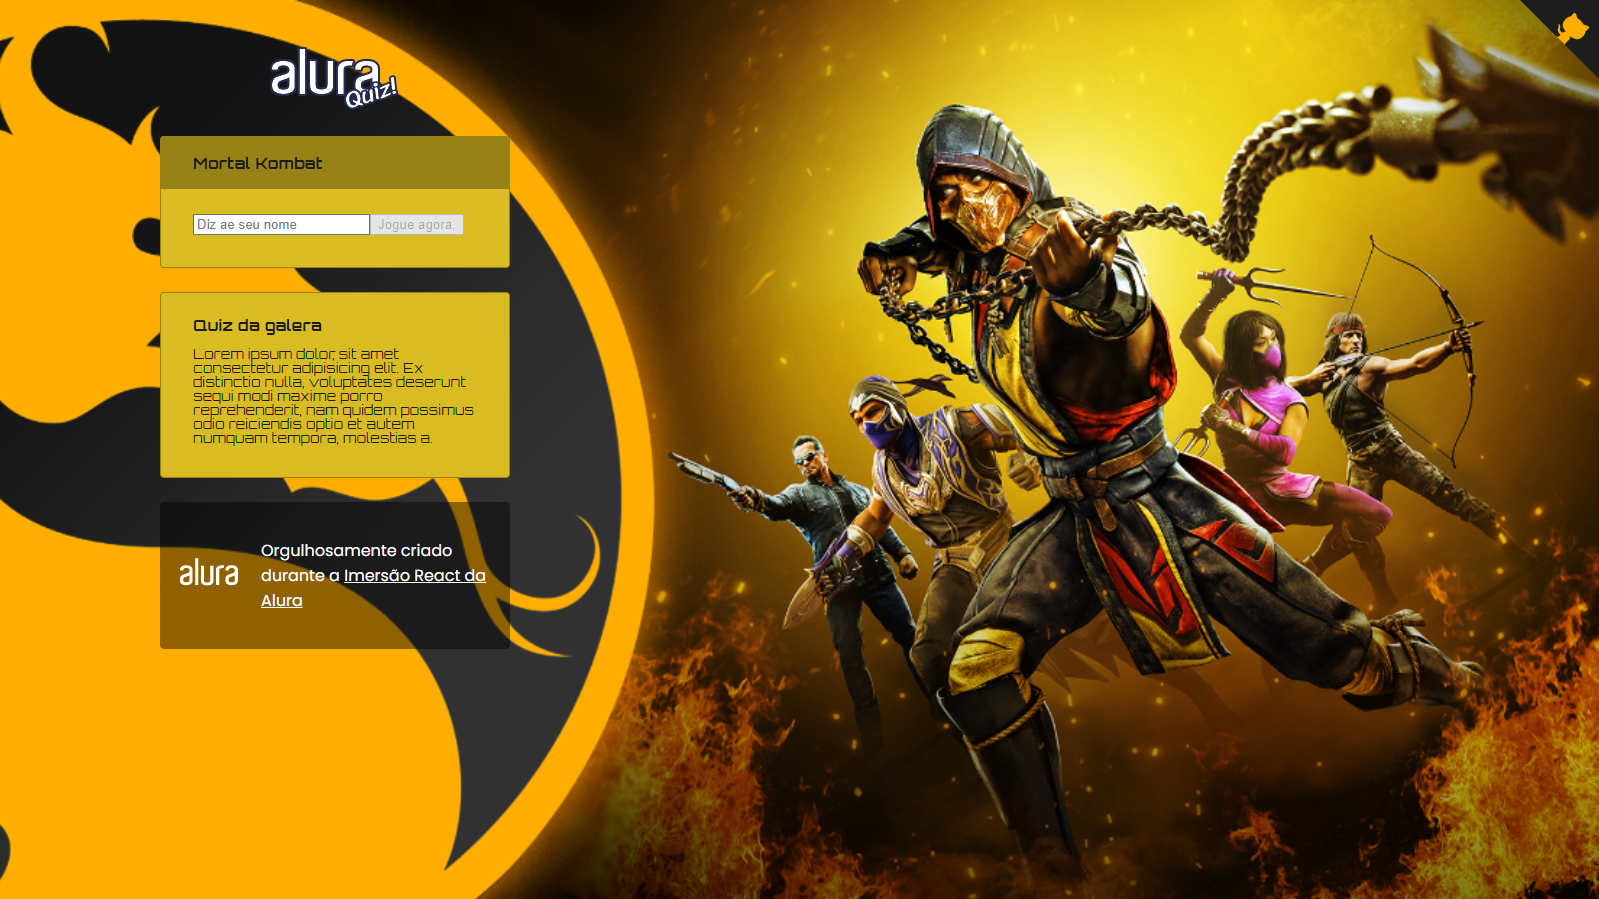
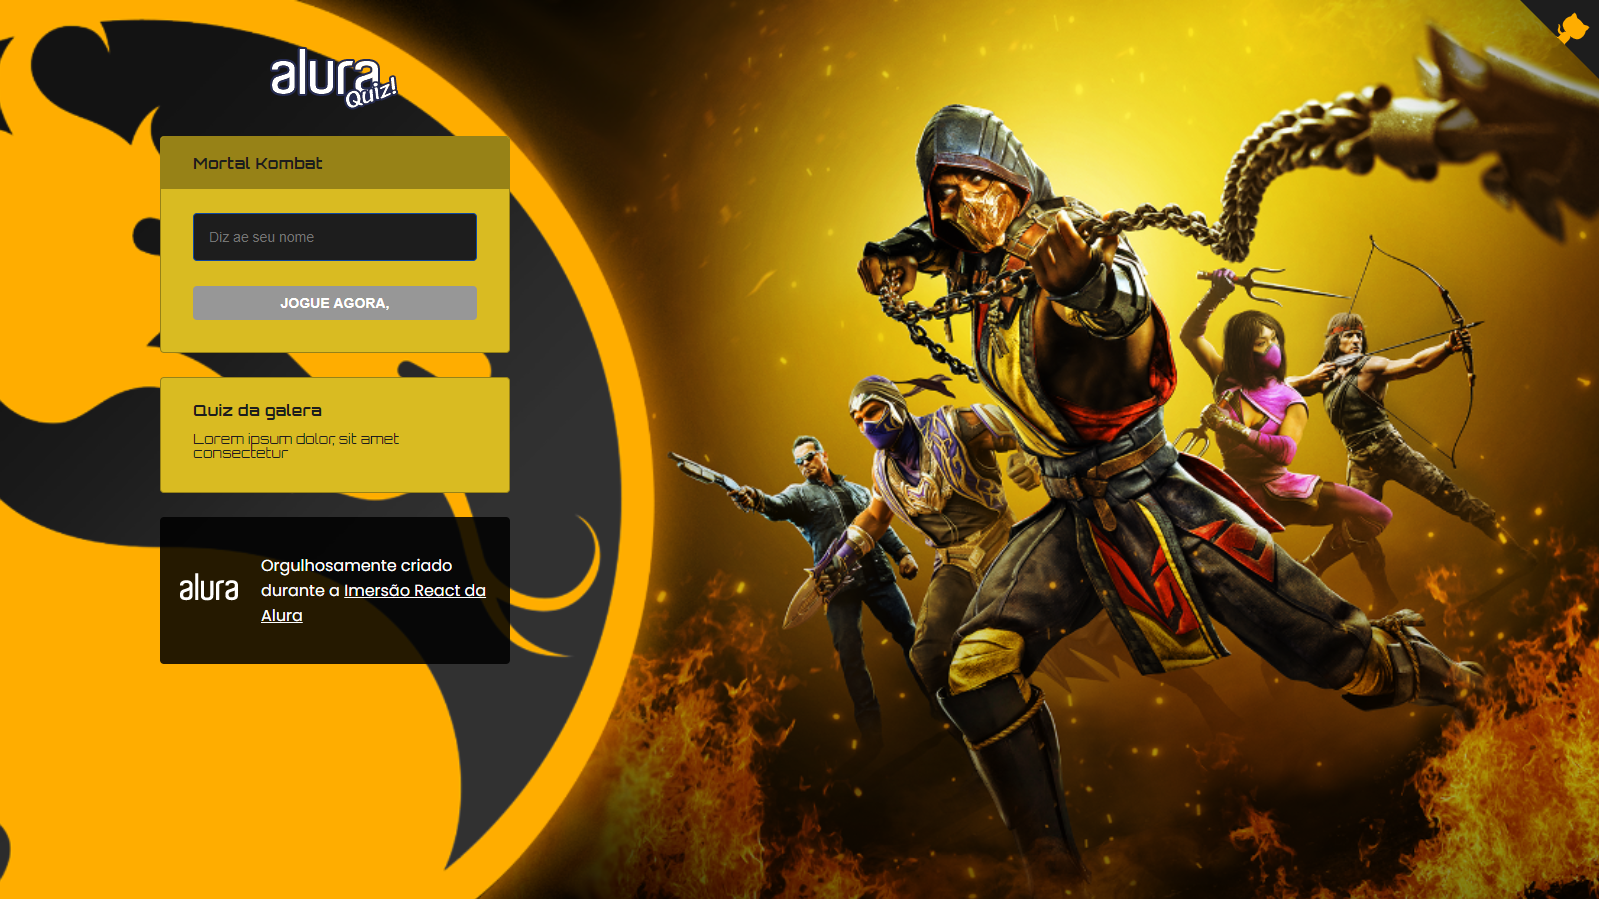
aula 3 finalizada

Changed region(s): [[0.0919, 0.218, 0.3371, 0.7475]]

diff --git a/pages/_app.js b/pages/_app.js
@@ -14,7 +14,7 @@ const GlobalStyle = createGlobalStyle`
     /* New styles */
     display: flex;
     flex-direction: column;
-    font-family: 'Orbitron', sans-serif;
+    font-family: 'Archivo', sans-serif;
     // Deixa branco no começo
     color: ${({ theme }) => theme.colors.mortalDragonSecondary};
   }
@@ -37,8 +37,23 @@ export default function App({ Component, pageProps }) {
       <Head>
         <title>KOMBAT QUIZ | ALURA</title>
         <link rel="preconnect" href="https://fonts.gstatic.com" />
+        <link rel="icon" href="https://raw.githubusercontent.com/matheus-2000/mortalquiz-base/7eca15ae5e45ab218b9d15d036910ffd9cbc24e8/assets/mk-dragon-logo.svg" />
         <link href="https://fonts.googleapis.com/css2?family=Archivo:wght@400;500;600;700&family=Nunito:wght@300;400;600;700;900&family=Poppins:wght@300;400;500;600;700;900&family=Roboto:wght@300;400;500;700;900&family=Ubuntu:wght@300;400;500;700&family=Orbitron:wght@400;500;600;700;800;900&display=swap" rel="stylesheet" />
-        <meta property="og:image" content="https://raw.githubusercontent.com/matheus-2000/mortalquiz-base/main/kombat-quiz.png" />
+        <meta property="og:locale" content="pt_BR" />
+        <meta property="og:url" content="https://mortalquiz-base.vercel.app" />
+        <meta property="og:title" content="Site quiz mortal Kombat" />
+        <meta property="og:site_name" content="Kombat Quiz" />
+        <meta property="og:description" content="Veja se vc é digno de levar o prêmio do Mortal Kombat ou seja sera morto por um Fatality!" />
+        <meta property="og:image" content="https://github.com/matheus-2000/mortalquiz-base/blob/main/kombat-quiz.png?raw=true" />
+        <meta property="og:image:type" content="image/png" />
+        <meta property="og:image:width" content="1599" />
+        <meta property="og:image:height" content="899" />
+        <meta property="og:image:alt" content="Kombat Quiz" />
+
+        <meta property="twitter:description" content="Veja se vc é digno de levar o prêmio do Mortal Kombat ou seja sera morto por um Fatality!" />
+        <meta property="twitter:image" content="https://github.com/matheus-2000/mortalquiz-base/blob/main/kombat-quiz.png?raw=true" />
+        <meta property="twitter:creator" content="Matheus Acácio Rodrigues" />
+        <meta property="twitter:site" content="Kombat Quiz" />
       </Head>
       <ThemeProvider theme={theme}>
         <GlobalStyle />

diff --git a/pages/index.js b/pages/index.js
@@ -73,7 +73,7 @@ export default function Home() {
         </Widget>
         <Footer />
       </QuizContainer>
-      <GitHubCorner projectUrl="https://github.com/matheus-2000" />
+      <GitHubCorner projectUrl="https://github.com/matheus-2000/mortalquiz-base" />
     </QuizBackground>
   );
 }
